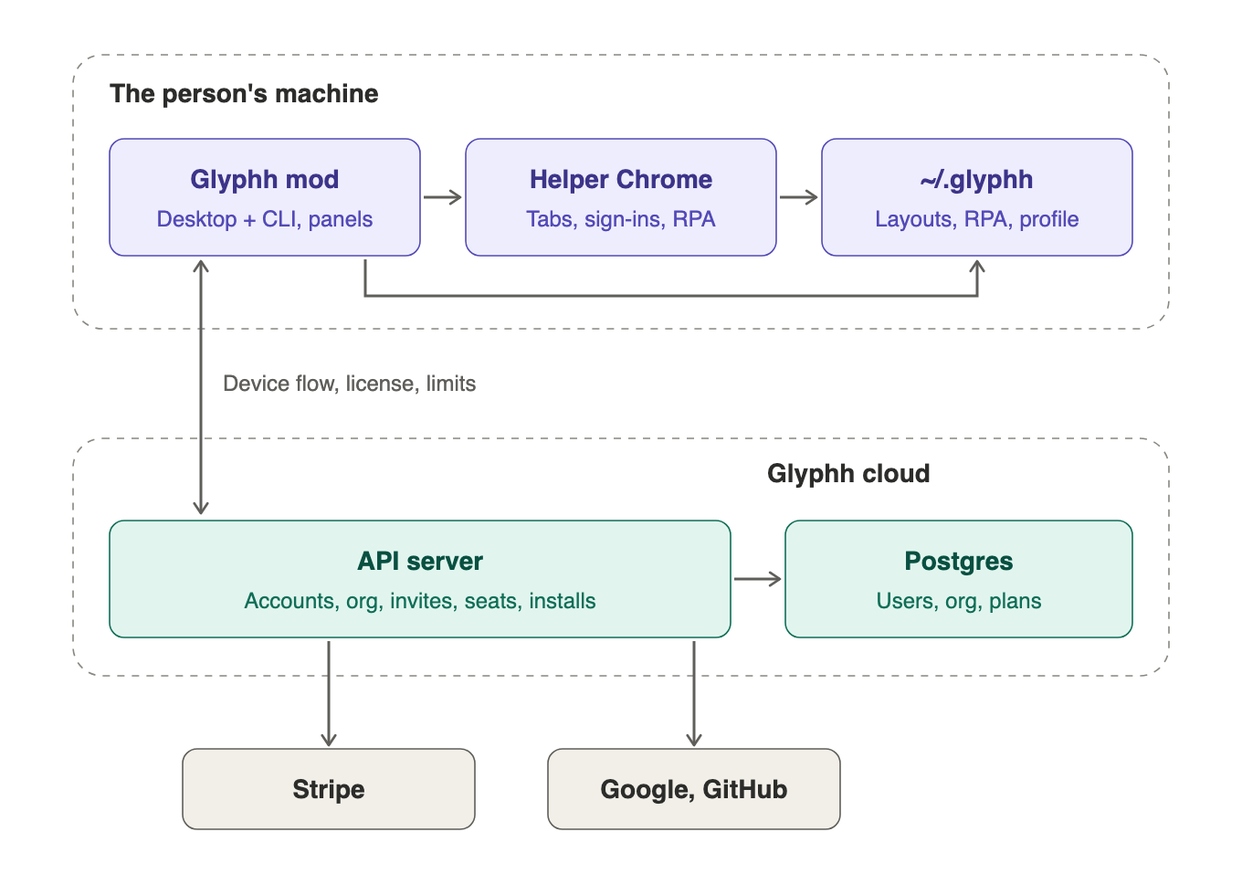
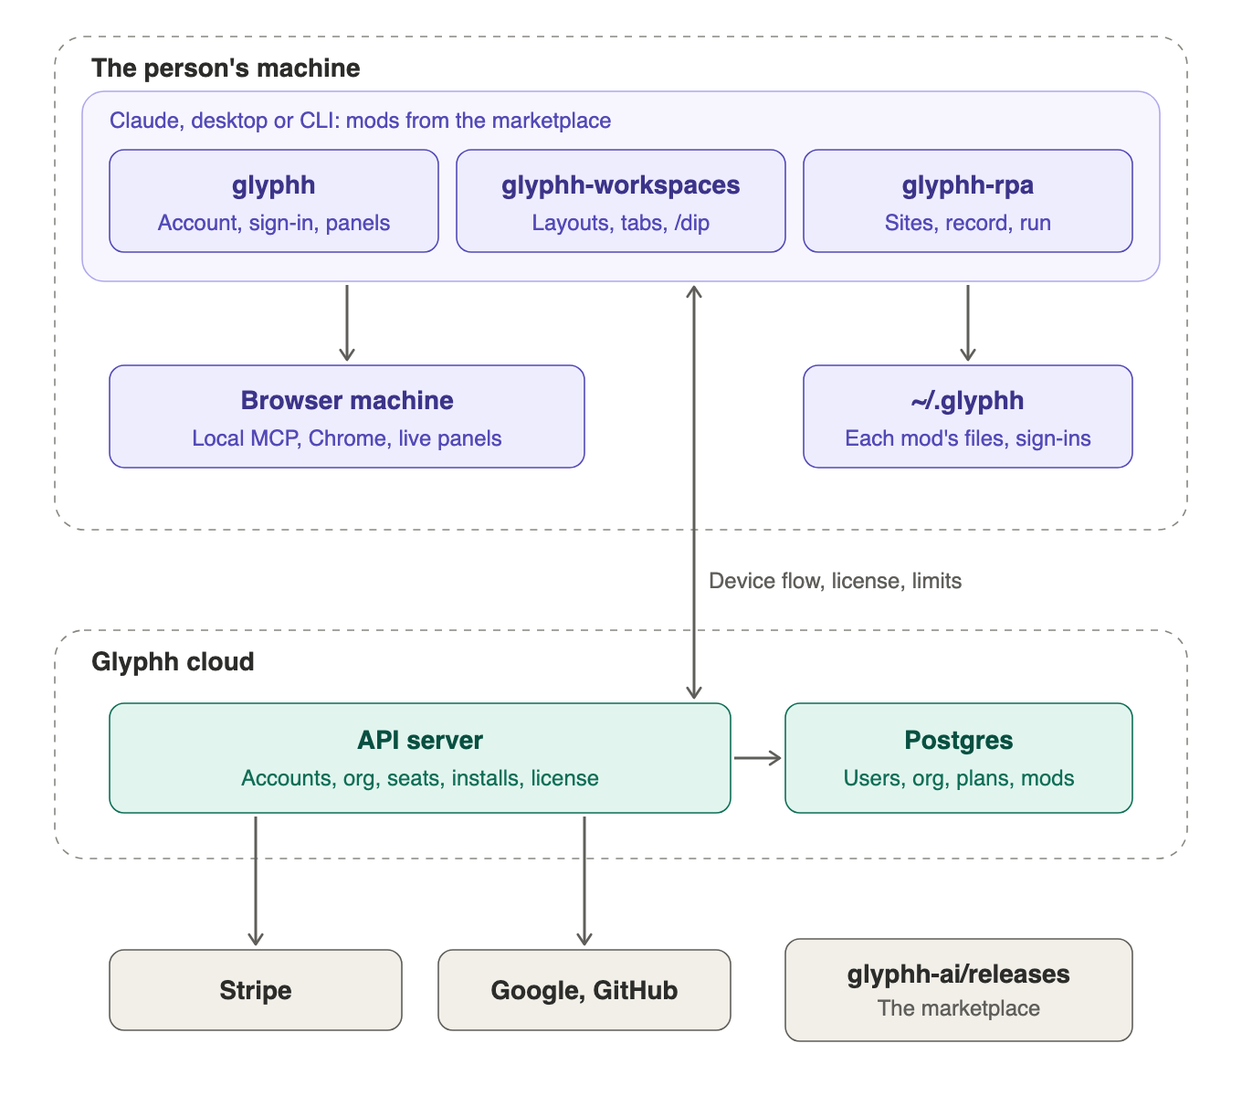
Architecture: Glyphh makes mods for Claude (Chris, 2026-10-14)
Separate mods from one marketplace (glyphh-ai/releases), one account and one
subscription: glyphh (account, license, panels and the browser machine, a
local MCP server serving MCP App panels), glyphh-workspaces and glyphh-rpa.
Pro and Team include every mod, new ones too; Free the free ones. Data model:
a mods catalog and plan_versions.all_mods replace the rpa flag; the license
carries the mods it includes; RPA sites live in ~/.glyphh/rpa.

diff --git a/server/docs/architecture.md b/server/docs/architecture.md
@@ -1,92 +1,146 @@
 # Glyphh
 
-The one doc for the relaunch (Chris, 2026-10-13): the [product](#product), the [architecture](#architecture), the [data model](#data-model) and the [plans](#plans). It replaces the programs, rrotor and machines architecture; that version is in git history (`25c1288`).
+The one doc for the relaunch (Chris, 2026-10-13 and 14): the [product](#product), the [architecture](#architecture), the [data model](#data-model) and the [plans](#plans). It replaces the programs, rrotor and machines architecture; that version is in git history (`25c1288`).
 
 ## Product
 
-Glyphh is a **Claude mod**: workspaces inside Claude. A workspace is a layout grid of live web tabs plus the Claude session it runs: model, folder, permission mode and effort. Switching workspaces switches all of it.
+**Glyphh makes mods for Claude, as a business** (Chris, 2026-10-14). A mod is a Claude Code plugin that adds commands, tools and panels to Claude. Each mod is its own product, installed on its own from one Glyphh marketplace; one Glyphh account and one subscription turn them on.
 
-- **Everything is in Claude.** Every screen is a panel Claude renders: sign in, account, members, invites, plan, seats. There is no Glyphh app, no Glyphh web UI and no server-rendered page.
-- **Desktop first, then the CLI.** The same mod runs in both. In the CLI it looks and feels CLI native.
-- **It looks like Claude.** Fonts and colors follow whichever Claude theme the person picked, on both surfaces.
+The first mods:
+
+| Mod | What it is | Plans |
+|---|---|---|
+| `glyphh` | The account: sign in, license, account, org, plan and billing panels, and the browser machine every other mod uses | Every plan; the others depend on it |
+| `glyphh-workspaces` | Workspaces: a layout grid of live web tabs plus the Claude session it runs (model, folder, permission mode, effort); switching workspaces switches all of it | Every plan; Free up to 2 workspaces |
+| `glyphh-rpa` | A website as tools: commands and sequences on a site, a live tab in a panel in Claude, take control, record a task once and run it | Pro and Team |
+
+- **Pro and Team include every mod**, and every mod as it ships, so the subscription grows in value. One mod sold on its own as an add-on can come later without a redesign.
+- **Everything is in Claude.** Every screen is a panel Claude shows. There is no Glyphh app and no Glyphh web UI; the only pages are the device sign-in's and Stripe's own.
+- **Desktop first, then the CLI.** The same mods run in both. In the CLI they look and feel CLI native.
+- **They look like Claude.** Fonts and colors follow the person's Claude theme.
 - **Functional first.** Every screen works before design draws it; design then builds the screens.
 
 ## Architecture
 
+![The whole system](img/architecture.png)
+
 ```mermaid
 flowchart TB
     subgraph Machine["The person's machine"]
-        Mod["Glyphh mod in Claude<br/>desktop and CLI, panels"]
-        Chrome["Helper Chrome<br/>tabs, sign-ins, RPA"]
-        Local[("~/.glyphh<br/>workspaces, layouts, RPA, profile")]
-        Mod --> Chrome
-        Mod --> Local
-        Chrome --> Local
+        subgraph Claude["Claude, desktop or CLI"]
+            Base["glyphh<br/>account, panels"]
+            WS["glyphh-workspaces"]
+            RPA["glyphh-rpa"]
+        end
+        BM["Browser machine<br/>glyphh's local MCP server"]
+        Chrome["Chrome<br/>tabs, sign-ins"]
+        Local[("~/.glyphh")]
+        Base --> BM
+        WS --> BM
+        RPA --> BM
+        BM --> Chrome
+        Base --> Local
+        WS --> Local
+        RPA --> Local
     end
 
     subgraph Cloud["Glyphh cloud"]
-        API["API server<br/>accounts, org, invites, seats, installs"]
+        API["API server<br/>accounts, org, seats, installs, license"]
         DB[("Postgres")]
         API --- DB
     end
 
+    Market["glyphh-ai/releases<br/>the marketplace"]
     Stripe["Stripe"]
     SignIn["Google, GitHub"]
 
-    Mod <-- "device flow, license, counts" --> API
+    Base <-- "device flow, license" --> API
+    Market -- "/plugin install" --> Claude
     API --> Stripe
     API --> SignIn
 ```
 
-Two parts: the mod on the machine, and one small server. **What a person makes stays on their machine; the cloud holds only who they are, their org and what they pay for.**
+Three parts: the mods on the machine, one small server, and the marketplace they are installed from. **What a person makes stays on their machine; the cloud holds only who they are, their org and what they pay for.**
 
-### The mod
+### Mods and how they are installed
 
-Built from `~/development/glyphh/workspaces` (its README holds what a Claude mod can and cannot do).
+- **A mod is a Claude Code plugin** whose hooks are a code module (`hooks/hooks.json` naming `register.tsx`, with `.claude-plugin/plugin.json`). It hooks Claude's events (session start, commands, tool calls, drawing) and reaches everything else through the engine (`$`): files, HTTP, processes, panels, MCP servers.
+- **Installed from the marketplace**, in a terminal: `/plugin install glyphh-workspaces --marketplace glyphh-ai/releases`. Installed at the user scope, a mod loads in every session, the desktop app's Code tab too. Every mod depends on `glyphh` (`plugin.json` `dependencies`).
+- **Source and releases are apart.** `glyphh-ai/glyphh` (private) holds the source, one folder per mod (`mods/glyphh`, `mods/glyphh-workspaces`, `mods/glyphh-rpa`), with their tests. `glyphh-ai/releases` (public) is the marketplace: `.claude-plugin/marketplace.json` listing every mod, and each mod as one built, minified module. Nobody installing a mod gets the source, the tests or the history.
+- **Each mod checks the license** when a session starts: a mod the license does not include draws only a panel that says which plans include it.
+- **Under development** a mod runs from its folder: `claude --plugin-dir <folder>`, or on the desktop linked into the session's mods folder with hot reloading.
+
+### Two kinds of panel
+
+| | Mod panels | MCP App panels |
+|---|---|---|
+| What | Drawn from Claude's own elements: boxes, text, buttons, inputs, selects, links, markdown, SVG | An HTML page with scripts, which an MCP tool returns (`text/html;profile=mcp-app`, at a `ui://` address) and Claude shows in a frame |
+| Can | Forms, lists, actions, at once on desktop and CLI | Live pictures, video, take control, anything a page can do; the host passes its theme as CSS variables (`--color-*`, `--font-*`) |
+| Cannot | Pictures (desktop), scripts, video | Draw in the CLI's own terminal |
+| Used for | Account, org, plan, billing, workspaces, a site's commands | A live tab, take control, record |
+
+Proved on 2026-10-12 (`glyphh-ai/server`, branch `proto/stream`): an MCP App panel in Claude showed a machine's screen live and took control of it. What it taught still holds: Claude's panel frame preflights every POST; tickets stay out of URLs; a panel's `ui://` address carries its version, since hosts keep its HTML by address.
+
+### `glyphh`: the account and the browser machine
+
+- **Sign in** by device flow: `/glyphh` shows the code and opens the link in Claude's browser pane (in the CLI, prints it); the person signs in with Google or GitHub; the mod, polling, gets the install's token. One sign-in serves every mod.
+- **License:** fetched and checked (Ed25519) at start and refreshed daily; every mod reads it.
+- **Panels** (mod panels): account, org, plan, billing.
+- **The browser machine:** `glyphh` ships a local MCP server (the plugin's own, started by Claude), which owns Chrome:
+    - Chrome driven over a private pipe (`--remote-debugging-pipe`), never a debugging port; one profile on disk, so a site signed in once stays signed in. One owner, since Chrome opens a profile once.
+    - Render, watch, take control, drive and record are its MCP tools; the other mods call them (`$.mcp.call`), and Claude calls those the mods allow.
+    - Its MCP App panels show a tab live (frames, or WebRTC where the frame allows it) with take control: the person's clicks, keys and paste go into the tab while Claude waits, and Claude sees no picture while they hold it, so a password or a code never reaches the model.
+    - Only this machine's Claude reaches it; other agents could pair with it later.
+
+### `glyphh-workspaces`
+
+Built from `~/development/glyphh/workspaces` (its README holds what a mod can and cannot do).
 
 - **Workspaces:** switch with `/dip`, by number or name. A workspace sets the session's model, folder, permission mode and effort, and opens its grid.
 - **Tabs:** each browser cell is a tab with a URL. **No redirect** keeps a tab in its cell when the site tries to hand itself to its native app (Slack, Teams, Zoom, Discord, Notion), as `glyphh-ai/app`'s `forceWeb` did.
-- **Live pages:** the helper Chrome renders every tab, driven over a private pipe (`--remote-debugging-pipe`), never a debugging port.
-    - **Desktop:** the layout as one page in Claude's browser pane, each tab as WebRTC video (JPEG when WebRTC fails); clicks, keys and scrolls go back over CDP.
+- **Live pages:** the browser machine renders every tab.
+    - **Desktop:** the layout as one page in Claude's browser pane (`/stream`), each tab as WebRTC video (JPEG when WebRTC fails); clicks, keys and scrolls go back.
     - **CLI:** frames drawn in the terminal with the kitty graphics protocol (Ghostty, kitty), the grid in characters, dividers dragged with the mouse.
-- **Sign-ins last:** the helper Chrome keeps one profile on disk, so a tab signed in once stays signed in across Claude restarts.
-- **RPA:** each tab can carry commands (click, type, read, go to, a script) and sequences of them, in `glyphh-ai/app`'s format (`src/shared/rpa.ts`). Each becomes a tool Claude can call. They run against the tab over CDP.
-- **Take control:** the person's clicks, keys and paste go into a tab while Claude waits; Claude sees no screenshot while they hold it, so a password or a code never reaches the model. Control is handed back with one click.
-- **Record:** the person does a task once in a tab and the helper captures each step (click, type, go to, with its selector) as an RPA sequence; they name it, fix or drop steps, test-run it and save it, and it becomes a tool. Recording happens in a panel in Claude: the tab live, with Record, Stop and the steps as they are captured.
-- **The helper is the machine.** Render, watch, take control, drive and record are the helper's own local API; the mod is its client. Only Claude uses it for now; other agents could pair with it later.
-- **Panels:** every account screen is a panel the mod renders in Claude, reading and writing the API.
-- **Theme:** the mod reads the person's Claude theme and draws with its fonts and colors.
+- **Saved as it is left:** dragged sizes are written back to the workspace's file.
+- **The limit:** the mod registers each workspace's name with the server when it creates one; past the plan's limit it is refused.
+- **Panel** (mod panel): list, create, edit (model, folder, permission mode, effort, grid, tabs), delete.
+
+### `glyphh-rpa`
+
+- **Sites:** a site is a URL it matches, with its commands (click, type, read, go to, a script, in `glyphh-ai/app`'s format, `src/shared/rpa.ts`) and sequences of them. Each command and sequence becomes a tool Claude can call; they run in the browser machine's tab for that site, so a workspace's tab on that site gets them too.
+- **Record:** the person does a task once in a live tab and each step (click, type, go to, with its selector) is captured as a sequence; they name it, fix or drop steps, test-run it and save it, and it becomes a tool.
+- **Panels:** the record panel (MCP App: the tab live, take control, Record and Stop, the steps as they are captured); a site's commands and sequences (mod panel: run, edit, delete).
 
 ### On the machine: `~/.glyphh`
 
 Nothing here goes to the cloud.
 
-| Path | What |
-|---|---|
-| `install.json` | This install's id and token, mode 0600 |
-| `license.json` | The signed license: plan, limits, features, expiry |
-| `workspaces/<slug>.json` | A workspace: model, folder, permission mode, effort, the grid with its saved positions, its tabs (URL, no redirect, RPA) |
-| `chrome/` | The helper Chrome's profile: the tabs' sign-ins |
-
-Positions dragged in the grid are written back to the workspace's file, so they are there when Claude opens again.
+| Path | Mod | What |
+|---|---|---|
+| `install.json` | `glyphh` | This install's id and token, mode 0600 |
+| `license.json` | `glyphh` | The signed license: plan, limits, mods, expiry |
+| `chrome/` | `glyphh` | The browser machine's Chrome profile: every site's sign-in |
+| `workspaces/<slug>.json` | `glyphh-workspaces` | A workspace: session, grid with its saved sizes, cells, tabs |
+| `rpa/<slug>.json` | `glyphh-rpa` | A site: what it matches, its commands and sequences |
 
 ### The server
 
-The `glyphh-ai/server` repo: Python 3.12+, FastAPI, Pydantic v2, SQLAlchemy 2 (async) on Postgres, in Docker. Built database first, then API, then SDK; 100% test coverage; errors with stable codes and a trace id; small files.
+The `glyphh-ai/server` repo: Python 3.13, FastAPI, Pydantic v2, SQLAlchemy 2 (async) on Postgres, in Docker. Built database first, then API; 100% test coverage; errors with stable codes and a trace id; small files.
 
-- **Sign in, by device flow (RFC 8628).** The mod asks for a code; the sign-in panel shows it and its link; the person signs in with Google or GitHub and approves; the mod, polling, gets the install's token. Each approval is an **install**.
+- **Sign in, by device flow (RFC 8628).** Each approval is an **install**: one machine, signed in once for every mod.
 - **Org.** The first user creates the org, is its admin and handles all billing. A user belongs to exactly one org. The admin invites members by email; an invite is accepted by signing in.
 - **Plans and seats.** Each seat is a member. The admin subscribes through Stripe and adds or removes seats; Stripe's webhooks keep the org's subscription and seat count true.
-- **License.** The server signs a short-lived license for each install (plan, limits, features, expiry) that the mod checks with its public key and refreshes. It carries what the mod gates locally (RPA).
+- **Mods.** The server keeps the catalog of mods. A plan version includes every mod (Pro, Team) or only the free ones (Free).
+- **License.** The server signs a short-lived license for each install (plan, limits, the mods it includes, expiry) that the mods check with its public key.
 - **Limits are enforced by the server**, at the moment they would be crossed:
     - **members:** an invite is refused when the org is at its plan's limit or out of seats;
     - **installs:** a device approval is refused when the user is at their limit;
-    - **workspaces:** the mod registers each workspace's name when it creates one and removes it when it deletes one; creating one past the limit is refused. Only the name and the user go to the server, nothing of what is in it.
-- **What goes:** machines, the machine link, threads, needs you, super powers, launch tickets, the relay and the MCP server.
+    - **workspaces:** creating one past the limit is refused. Only the name and the user go to the server, nothing of what is in it.
+- **What a mod gates locally** (a mod not in the license) can be edited out by someone determined; what is worth paying for is enforced here.
 
 ### API
 
-JSON over HTTPS under `/v1`, described by `/openapi.json`. Every call but the device flow's, the plans list and Stripe's webhook carries the install's token (`Authorization: Bearer`). Refusals are `{"error": {"code", "message", "trace_id"}}`; a limit reached is `E_LIMIT`, naming the limit, what is used and the plan that would lift it.
+JSON over HTTPS under `/v1`, described by `/openapi.json`. Every call but the device flow's, the plans and mods lists and Stripe's webhook carries the install's token (`Authorization: Bearer`). Refusals are `{"error": {"code", "message", "trace_id"}}`; a limit reached is `E_LIMIT`, with `limit`, `used`, `max` and the `plan` that would lift it.
 
 **Device flow** (RFC 8628):
 
@@ -102,12 +156,12 @@ Signing in the first time makes the person's org (Free, them its admin), unless 
 
 | Call | Does |
 |---|---|
-| `GET /v1/me` | The user, their org and role, the plan version and its limits, and what is used (members, seats, installs, workspaces) |
+| `GET /v1/me` | The user, their org and role, the plan version, its limits and mods, and what is used (members, seats, installs, workspaces) |
 | `PATCH /v1/me` `{name}` | Rename |
 | `GET /v1/installs` · `DELETE /v1/installs/{id}` | List installs; revoke one (signs that machine out) |
 | `POST /v1/sign-out` | Revoke this install |
-| `GET /v1/license` | This install's license, signed (Ed25519): plan, limits, features, `expires_at` (24 hours) |
-| `GET /v1/license/key` | The public key the mod checks it with |
+| `GET /v1/license` | This install's license, signed (Ed25519): plan, limits, `mods`, `expires_at` (24 hours) |
+| `GET /v1/license/key` | The public key the mods check it with |
 | `GET /v1/workspaces` · `POST /v1/workspaces` `{name}` · `PATCH /v1/workspaces/{name}` `{name}` · `DELETE /v1/workspaces/{name}` | The user's workspace names; creating one past `max_workspaces` is refused |
 
 **Org** (writes are the admin's):
@@ -119,14 +173,15 @@ Signing in the first time makes the person's org (Free, them its admin), unless 
 | `GET /v1/org/invites` · `POST /v1/org/invites` `{email}` · `DELETE /v1/org/invites/{id}` | Invites; one is refused past the plan's members or the seats bought. An invite answers with its link to share |
 | `POST /v1/invites/accept` `{token}` | An existing user joins: only when their own org has no one else and nothing paid, which is then removed |
 
-**Plans and billing** (writes are the admin's):
+**Mods, plans and billing** (writes are the admin's):
 
 | Call | Does |
 |---|---|
-| `GET /v1/plans` | Each plan's newest version: price per seat, limits, features |
+| `GET /v1/mods` | The catalog: each mod's slug, name, description, whether it is free, and the plans that include it |
+| `GET /v1/plans` | Each plan's newest version: price per seat, limits, its mods |
 | `POST /v1/billing/checkout` `{plan, seats}` | Stripe Checkout's address, to open in the browser pane |
 | `POST /v1/billing/plan` `{plan}` | Change plan: the newest version of it, prorated |
-| `POST /v1/billing/seats` `{seats}` | Change the seats; never below the members |
+| `POST /v1/billing/seats` `{seats}` | Change the seats; never below the members and open invites |
 | `POST /v1/billing/portal` | Stripe's portal address: card, invoices, cancel |
 | `POST /v1/stripe/webhook` | Stripe's events keep `orgs` true: plan version, seats, status |
 
@@ -134,20 +189,26 @@ Signing in the first time makes the person's org (Free, them its admin), unless 
 
 Each works before design draws it.
 
-1. **Sign in:** the code, the link, waiting, signed in.
-2. **Account:** name, email, sign-in providers, installs (revoke one), sign out.
-3. **Org:** name; members with their role (remove one); invites (send, revoke, pending).
-4. **Plan:** the current plan and its limits, what is used, change plan.
-5. **Billing** (admin): seats (add, remove), the card and invoices through Stripe's own pages.
-6. **Workspaces:** list, create, edit (model, folder, permission mode, effort, grid, tabs), delete.
-7. **Record:** a tab live with take control; Record and Stop; the captured steps (rename, fix, drop); test-run; save as a tool.
-8. **RPA:** a tab's commands and sequences; run, edit, delete.
+| Panel | Mod | Kind |
+|---|---|---|
+| Sign in: the code, the link, waiting, signed in | `glyphh` | Mod |
+| Account: name, email, providers, installs (revoke), sign out | `glyphh` | Mod |
+| Org: name, members (remove), invites (send, revoke) | `glyphh` | Mod |
+| Plan: plan, limits, usage, mods included, change plan | `glyphh` | Mod |
+| Billing (admin): seats, checkout, Stripe's portal | `glyphh` | Mod |
+| A live tab with take control | `glyphh` | MCP App |
+| Workspaces: list, create, edit, delete | `glyphh-workspaces` | Mod |
+| Record: the tab live, take control, Record and Stop, the steps, test-run, save | `glyphh-rpa` | MCP App |
+| A site's commands and sequences: run, edit, delete | `glyphh-rpa` | Mod |
+| Not in your plan: which plans include this mod | every mod | Mod |
 
 ### To prove first
 
-- **Google sign-in in the helper Chrome:** Google may refuse a sign-in in a Chrome under automation ("This browser or app may not be secure"). Gmail and Calendar tabs depend on it.
-- **Sign-in pages from a panel:** on desktop, Google's and GitHub's pages open in Claude's browser pane; in the CLI there is no pane, so they open in the system browser. Whether Google allows its page in the browser pane is to test.
-- **The theme:** whether a mod can read the active Claude theme, or has to read it from Claude's settings.
+- **MCP App panels from a plugin's local MCP server in the Code tab:** proved from the server's remote MCP; to prove from `glyphh`'s own local server, with one live tab and take control.
+- **Dependencies through the marketplace:** that installing `glyphh-workspaces` brings `glyphh` with it.
+- **A built mod loads:** that one minified module per mod loads and validates as its source does.
+- **Google sign-in in the browser machine's Chrome:** Google may refuse a sign-in in a Chrome under automation ("This browser or app may not be secure"). Gmail and Calendar tabs depend on it.
+- **Sign-in pages from a panel:** whether Google allows its sign-in page in Claude's browser pane.
 
 ## Data model
 
@@ -166,6 +227,7 @@ erDiagram
     USERS ||--o{ WORKSPACES : "owns"
     INSTALLS ||--o{ TOKENS : "holds"
     INSTALLS ||--o{ DEVICE_CODES : "approved by"
+    MODS }o..o{ PLAN_VERSIONS : "free, or all_mods"
     PLANS {
         uuid id PK
         text name
@@ -181,8 +243,16 @@ erDiagram
         int max_members
         int max_installs
         int max_workspaces
-        bool rpa
+        bool all_mods
         timestamp created_at
+    }
+    MODS {
+        text slug PK
+        text name
+        text description
+        bool free
+        bool active
+        int sort
     }
     ORGS {
         uuid id PK
@@ -202,9 +272,9 @@ erDiagram
         text role
     }
     IDENTITIES {
+        text provider PK
+        text provider_user_id PK
         uuid user_id FK
-        text provider
-        text provider_user_id UK
     }
     INVITES {
         uuid id PK
@@ -244,11 +314,12 @@ erDiagram
     }
 ```
 
-- **Plan versions never change.** Changing a plan's price or limits adds a version with its own Stripe price (Stripe prices cannot change either). An org stays on the version it subscribed to (`orgs.plan_version_id`), so an update never touches an org; new orgs get the newest version, and an org moves only when its admin changes plan or we migrate it on purpose.
+- **Plan versions never change their price or limits.** Changing either adds a version with its own Stripe price (Stripe prices cannot change either). An org stays on the version it subscribed to (`orgs.plan_version_id`), so an update never touches an org; new orgs get the newest version, and an org moves only when its admin changes plan or we migrate it on purpose.
+- **Which mods a version includes:** `all_mods` true includes every active mod, new ones as they ship (Pro, Team); false, only the free ones (Free). A mod once free stays free, so no org ever loses a mod it had.
 - **A limit left empty is unlimited.**
 - **One org per user:** `users.org_id`, not a memberships table. `role` is `admin` or `member`; the org's first user is its admin (`orgs.admin_user_id`).
 - **People are found by the provider's own id** (`identities`), never by email alone.
-- **Installs:** one per device-flow approval, with its surface (`desktop` or `cli`). Revoking one signs that machine out. Its tokens are stored hashed.
+- **Installs:** one per device-flow approval, one per machine for every mod, with its surface (`desktop` or `cli`). Revoking one signs that machine out. Its tokens are stored hashed.
 - **Workspaces:** names only, for the limit. Everything else about a workspace is in `~/.glyphh`.
 - **Tenant isolation:** row-level security keyed on the org.
 
@@ -258,9 +329,10 @@ erDiagram
 
 - **A workspace is one file**, `workspaces/<slug>.json`: its session (model, folder, permission mode, effort), its grid (columns, rows and their saved sizes), the desktop panes it opens, its cells and its tabs.
 - **A cell** sits at a column and row with its spans, and is a `browser` (showing one of the workspace's tabs), `file`, `editor`, `terminal` or `diff`.
-- **A tab** is a URL with its name and no redirect, and carries its RPA: commands, and sequences of steps that call them (`recorded` when made with Record).
-- **Every tab signs in through the one Chrome profile** (`chrome/`).
-- **`license.json`** is refreshed from the server through the install's token and carries the plan's limits and features.
+- **A tab** is a URL with its name and no redirect.
+- **A site is one file**, `rpa/<slug>.json`: what URLs it matches, its commands, and sequences of steps that call them (`recorded` when made with Record). A tab on a matching URL gets the site's tools.
+- **Every site signs in through the one Chrome profile** (`chrome/`).
+- **`license.json`** is refreshed from the server through the install's token and carries the plan's limits and mods.
 
 ## Plans
 
@@ -269,9 +341,9 @@ Billed per seat, per month. Installs and workspaces are per user.
 | | Free | Pro | Team |
 |---|---|---|---|
 | Price per seat | $0 | $8 | $16 |
+| Mods | `glyphh`, `glyphh-workspaces` | Every mod | Every mod |
 | Members | 1 | 1 | Unlimited |
 | Installs | 1 | 5 | 10 |
 | Workspaces | 2 | 10 | Unlimited |
-| RPA | No | Yes | Yes |
 
 Team's installs are capped so one seat can't be shared across a team's machines.
